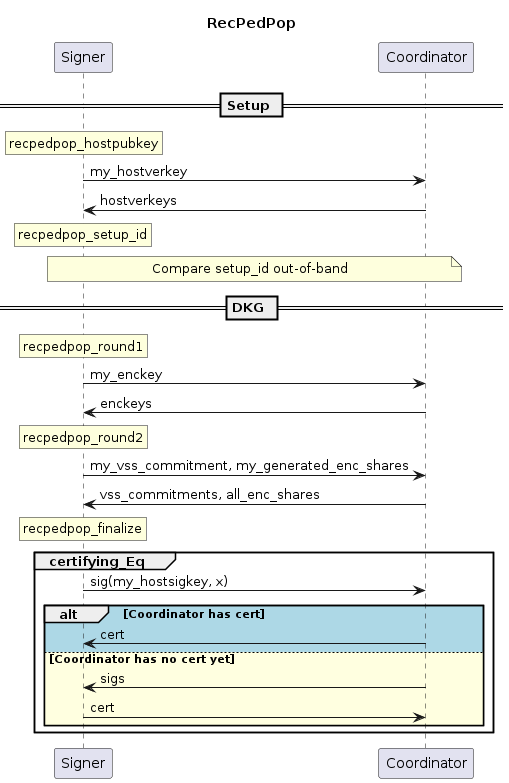
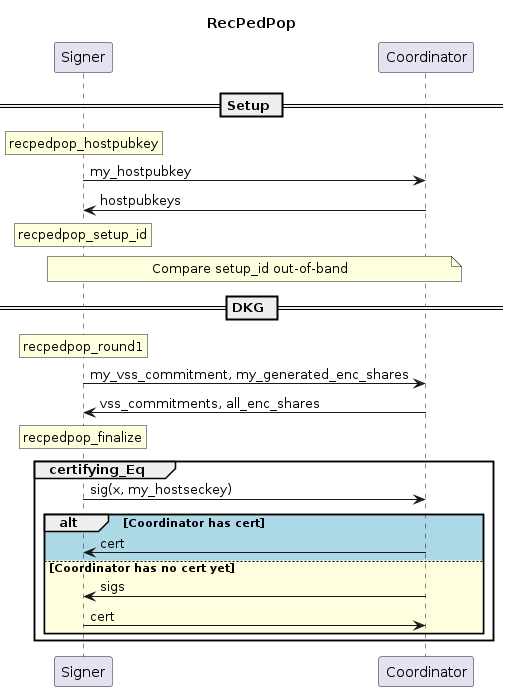
rename python functions and variables post enckeys round removal

Changed region(s): [[0.0, 0.0304, 1.0, 1.0], [0.4126, 0.0, 0.5894, 0.0608]]

diff --git a/reference/reference.py b/reference/reference.py
@@ -153,9 +153,9 @@ def ecdh(deckey: bytes, enckey: bytes, context: bytes) -> Scalar:
 def encrypt(share: Scalar, my_deckey: bytes, enckey: bytes, context: bytes) -> Scalar:
     return (share + ecdh(my_deckey, enckey, context)) % GROUP_ORDER
 
-EncPedPopR2State = Tuple[int, bytes, List[bytes], SimplPedPopR1State]
+EncPedPopR1State = Tuple[int, bytes, List[bytes], SimplPedPopR1State]
 
-def encpedpop_round2(seed: bytes, t: int, n: int, my_deckey: bytes, enckeys: List[bytes], my_idx: int) -> Tuple[EncPedPopR2State, VSSCommitmentExt, List[Scalar]]:
+def encpedpop_round1(seed: bytes, t: int, n: int, my_deckey: bytes, enckeys: List[bytes], my_idx: int) -> Tuple[EncPedPopR1State, VSSCommitmentExt, List[Scalar]]:
     assert(n == len(enckeys))
     if len(enckeys) != len(set(enckeys)):
         raise DuplicateEnckeysError
@@ -170,7 +170,7 @@ def encpedpop_round2(seed: bytes, t: int, n: int, my_deckey: bytes, enckeys: Lis
     state2 = (t, my_deckey, enckeys, simpl_state)
     return state2, vss_commitment_ext, enc_gen_shares
 
-def encpedpop_pre_finalize(state2: EncPedPopR2State, vss_commitments_sum: VSSCommitmentSum, enc_shares_sum: Scalar) -> Tuple[bytes, DKGOutput]:
+def encpedpop_pre_finalize(state2: EncPedPopR1State, vss_commitments_sum: VSSCommitmentSum, enc_shares_sum: Scalar) -> Tuple[bytes, DKGOutput]:
     t, my_deckey, enckeys, simpl_state = state2
     n = len(enckeys)
 
@@ -186,33 +186,33 @@ def encpedpop_pre_finalize(state2: EncPedPopR2State, vss_commitments_sum: VSSCom
     return eta, dkg_output
 
 def recpedpop_hostpubkey(seed: bytes) -> Tuple[bytes, bytes]:
-    my_hostsigkey = kdf(seed, "hostsigkey")
+    my_hostseckey = kdf(seed, "hostseckey")
     # TODO: rename to distinguish plain and xonly key gen
-    my_hostverkey = pubkey_gen_plain(my_hostsigkey)
-    return (my_hostsigkey, my_hostverkey)
+    my_hostpubkey = pubkey_gen_plain(my_hostseckey)
+    return (my_hostseckey, my_hostpubkey)
 
 Setup = Tuple[List[bytes], int, bytes]
 
-def recpedpop_setup_id(hostverkeys: List[bytes], t: int, context_string: bytes) -> Tuple[Setup, bytes]:
+def recpedpop_setup_id(hostpubkeys: List[bytes], t: int, context_string: bytes) -> Tuple[Setup, bytes]:
     assert(t < 2**(4*8))
-    setup_id = tagged_hash("setup id", b''.join(hostverkeys) + t.to_bytes(4, byteorder="big") + context_string)
-    setup = (hostverkeys, t, setup_id)
+    setup_id = tagged_hash("setup id", b''.join(hostpubkeys) + t.to_bytes(4, byteorder="big") + context_string)
+    setup = (hostpubkeys, t, setup_id)
     return setup, setup_id
 
-RecPedPopR2State = Tuple[bytes, int, EncPedPopR2State]
+RecPedPopR1State = Tuple[bytes, int, EncPedPopR1State]
 
-def recpedpop_round2(seed: bytes, setup: Setup) -> Tuple[RecPedPopR2State, VSSCommitmentExt, List[Scalar]]:
-    my_hostsigkey, my_hostverkey = recpedpop_hostpubkey(seed)
-    (hostverkeys, t, setup_id) = setup
-    n = len(hostverkeys)
+def recpedpop_round1(seed: bytes, setup: Setup) -> Tuple[RecPedPopR1State, VSSCommitmentExt, List[Scalar]]:
+    my_hostseckey, my_hostpubkey = recpedpop_hostpubkey(seed)
+    (hostpubkeys, t, setup_id) = setup
+    n = len(hostpubkeys)
 
     seed_ = kdf(seed, "setup", setup_id)
-    my_idx = hostverkeys.index(my_hostverkey)
-    enc_state2, vss_commitment_ext, enc_gen_shares = encpedpop_round2(seed_, t, n, my_hostsigkey, hostverkeys, my_idx)
+    my_idx = hostpubkeys.index(my_hostpubkey)
+    enc_state2, vss_commitment_ext, enc_gen_shares = encpedpop_round1(seed_, t, n, my_hostseckey, hostpubkeys, my_idx)
     state2 = (setup_id, my_idx, enc_state2)
     return state2, vss_commitment_ext, enc_gen_shares
 
-def recpedpop_pre_finalize(seed: bytes, state2: RecPedPopR2State, vss_commitments_sum: VSSCommitmentSum, all_enc_shares_sum: List[Scalar]) -> Tuple[bytes, DKGOutput]:
+def recpedpop_pre_finalize(seed: bytes, state2: RecPedPopR1State, vss_commitments_sum: VSSCommitmentSum, all_enc_shares_sum: List[Scalar]) -> Tuple[bytes, DKGOutput]:
     (setup_id, my_idx, enc_state2) = state2
 
     # TODO Not sure if we need to include setup_id as eta here. But it won't hurt.
@@ -227,10 +227,10 @@ def recpedpop_pre_finalize(seed: bytes, state2: RecPedPopR2State, vss_commitment
 
 EqualityCheck = Callable[[bytes], Coroutine[Any, Any, bool]]
 
-async def recpedpop(chan: SignerChannel, seed: bytes, my_hostsigkey: bytes, setup: Setup) -> Union[Tuple[DKGOutput, Any], bool]:
-    (hostverkeys, _, _) = setup
+async def recpedpop(chan: SignerChannel, seed: bytes, my_hostseckey: bytes, setup: Setup) -> Union[Tuple[DKGOutput, Any], bool]:
+    (hostpubkeys, _, _) = setup
 
-    state2, vss_commitment_ext, enc_gen_shares =  recpedpop_round2(seed, setup)
+    state2, vss_commitment_ext, enc_gen_shares =  recpedpop_round1(seed, setup)
     chan.send((vss_commitment_ext, enc_gen_shares))
     vss_commitments_sum, all_enc_shares_sum = await chan.receive()
 
@@ -239,28 +239,28 @@ async def recpedpop(chan: SignerChannel, seed: bytes, my_hostsigkey: bytes, setu
     except Exception as e:
         print("Exception", repr(e))
         return False
-    cert = await certifying_eq(chan, my_hostsigkey, hostverkeys, eta)
+    cert = await certifying_eq(chan, my_hostseckey, hostpubkeys, eta)
     transcript = (setup, vss_commitments_sum, all_enc_shares_sum, cert)
     return (shares_sum, shared_pubkey, signer_pubkeys), transcript
 
-def verify_cert(hostverkeys: List[bytes], x: bytes, sigs: List[bytes]) -> bool:
-    n = len(hostverkeys)
+def verify_cert(hostpubkeys: List[bytes], x: bytes, sigs: List[bytes]) -> bool:
+    n = len(hostpubkeys)
     if len(sigs) != n:
         return False
-    is_valid = [schnorr_verify(x, hostverkeys[i][1:33], sigs[i]) for i in range(n)]
+    is_valid = [schnorr_verify(x, hostpubkeys[i][1:33], sigs[i]) for i in range(n)]
     return all(is_valid)
 
-async def certifying_eq(chan: SignerChannel, my_hostsigkey: bytes, hostverkeys: List[bytes], x: bytes) -> List[bytes]:
-    n = len(hostverkeys)
+async def certifying_eq(chan: SignerChannel, my_hostseckey: bytes, hostpubkeys: List[bytes], x: bytes) -> List[bytes]:
+    n = len(hostpubkeys)
     # TODO: fix aux_rand
-    chan.send(("SIG", schnorr_sign(x, my_hostsigkey, b'0'*32)))
-    sigs = [b''] * len(hostverkeys)
+    chan.send(("SIG", schnorr_sign(x, my_hostseckey, b'0'*32)))
+    sigs = [b''] * len(hostpubkeys)
     while(True):
         i, ty, msg = await chan.receive()
         if ty == "SIG":
-            # TODO: We're just slicing into a hostverkey to get a 32 byte BIP 340
+            # TODO: We're just slicing into a hostpubkey to get a 32 byte BIP 340
             # pubkey. This makes signatures sort of malleable. Is this ok?
-            is_valid = schnorr_verify(x, hostverkeys[i][1:33], msg)
+            is_valid = schnorr_verify(x, hostpubkeys[i][1:33], msg)
             if sigs[i] == b'' and is_valid:
                 sigs[i] = msg
             elif not is_valid:
@@ -278,7 +278,7 @@ async def certifying_eq(chan: SignerChannel, my_hostsigkey: bytes, hostverkeys: 
                 return cert
         if ty == "CERT":
             sigs = msg
-            if verify_cert(hostverkeys, x, sigs):
+            if verify_cert(hostpubkeys, x, sigs):
                 chan.send(("CERT", cert))
                 return cert
 
@@ -301,15 +301,15 @@ async def recpedpop_coordinate(chans: CoordinatorChannels, t: int, n: int) -> No
 
 # Recovery requires the seed and the public transcript
 def recpedpop_recover(seed: bytes, transcript: Any) -> Union[Tuple[DKGOutput, Setup], bool]:
-    _, my_hostverkey = recpedpop_hostpubkey(seed)
+    _, my_hostpubkey = recpedpop_hostpubkey(seed)
     setup, vss_commitments_sum, all_enc_shares_sum, cert = transcript
-    hostverkeys, _, _ = setup
-    if not my_hostverkey in hostverkeys:
+    hostpubkeys, _, _ = setup
+    if not my_hostpubkey in hostpubkeys:
         return False
 
-    state2, _, _ = recpedpop_round2(seed, setup)
+    state2, _, _ = recpedpop_round1(seed, setup)
 
     eta, (shares_sum, shared_pubkey, signer_pubkeys) = recpedpop_pre_finalize(seed, state2, vss_commitments_sum, all_enc_shares_sum)
-    if not verify_cert(hostverkeys, eta, cert):
+    if not verify_cert(hostpubkeys, eta, cert):
         return False
     return (shares_sum, shared_pubkey, signer_pubkeys), setup

diff --git a/reference/tests.py b/reference/tests.py
@@ -29,29 +29,29 @@ def simulate_simplpedpop(seeds, t):
         dkg_outputs += [simplpedpop_pre_finalize(round1_outputs[i][0], vss_commitments_sum, shares_sum)]
     return dkg_outputs
 
-def encpedpop_round1(seed: bytes) -> Tuple[bytes, bytes]:
+def encpedpop_keys(seed: bytes) -> Tuple[bytes, bytes]:
     my_deckey = kdf(seed, "deckey")
     my_enckey = pubkey_gen_plain(my_deckey)
     return my_deckey, my_enckey
 
 def simulate_encpedpop(seeds, t):
     n = len(seeds)
+    round0_outputs = []
     round1_outputs = []
-    round2_outputs = []
     dkg_outputs = []
     for i in range(n):
-        round1_outputs += [encpedpop_round1(seeds[i])]
+        round0_outputs += [encpedpop_keys(seeds[i])]
 
-    enckeys = [out[1] for out in round1_outputs]
+    enckeys = [out[1] for out in round0_outputs]
     for i in range(n):
-        my_deckey = round1_outputs[i][0]
-        round2_outputs += [encpedpop_round2(seeds[i], t, n, my_deckey, enckeys, i)]
+        my_deckey = round0_outputs[i][0]
+        round1_outputs += [encpedpop_round1(seeds[i], t, n, my_deckey, enckeys, i)]
 
-    vss_commitments_ext = [out[1] for out in round2_outputs]
+    vss_commitments_ext = [out[1] for out in round1_outputs]
     vss_commitments_sum = vss_sum_commitments(vss_commitments_ext, t)
     for i in range(n):
-        enc_shares_sum = scalar_add_multi([out[2][i] for out in round2_outputs])
-        dkg_outputs += [encpedpop_pre_finalize(round2_outputs[i][0], vss_commitments_sum, enc_shares_sum)]
+        enc_shares_sum = scalar_add_multi([out[2][i] for out in round1_outputs])
+        dkg_outputs += [encpedpop_pre_finalize(round1_outputs[i][0], vss_commitments_sum, enc_shares_sum)]
     return dkg_outputs
 
 def simulate_recpedpop(seeds, t):
@@ -61,22 +61,22 @@ def simulate_recpedpop(seeds, t):
     for i in range(n):
         hostkeys += [recpedpop_hostpubkey(seeds[i])]
 
-    hostverkeys = [hostkey[1] for hostkey in hostkeys]
-    setup, _ = recpedpop_setup_id(hostverkeys, t, b'')
+    hostpubkeys = [hostkey[1] for hostkey in hostkeys]
+    setup, _ = recpedpop_setup_id(hostpubkeys, t, b'')
 
-    round2_outputs = []
+    round1_outputs = []
     for i in range(n):
-        round2_outputs += [recpedpop_round2(seeds[i], setup)]
+        round1_outputs += [recpedpop_round1(seeds[i], setup)]
 
-    state2s = [out[0] for out in round2_outputs]
-    vss_commitments_ext = [out[1] for out in round2_outputs]
+    state1s = [out[0] for out in round1_outputs]
+    vss_commitments_ext = [out[1] for out in round1_outputs]
     vss_commitments_sum = vss_sum_commitments(vss_commitments_ext, t)
     dkg_outputs = []
     all_enc_shares_sum = []
     for i in range(n):
-        all_enc_shares_sum += [scalar_add_multi([out[2][i] for out in round2_outputs])]
+        all_enc_shares_sum += [scalar_add_multi([out[2][i] for out in round1_outputs])]
     for i in range(n):
-        dkg_outputs += [recpedpop_pre_finalize(seeds[i], state2s[i], vss_commitments_sum, all_enc_shares_sum)]
+        dkg_outputs += [recpedpop_pre_finalize(seeds[i], state1s[i], vss_commitments_sum, all_enc_shares_sum)]
     return dkg_outputs
 
 def simulate_recpedpop_full(seeds, t):

diff --git a/README.md b/README.md
@@ -323,9 +323,9 @@ The participants start by generating an ephemeral key pair as per [BIP 327's Ind
 The (public) encryption keys are distributed among the participants.
 
 ```python
-EncPedPopR2State = Tuple[int, bytes, List[bytes], SimplPedPopR1State]
+EncPedPopR1State = Tuple[int, bytes, List[bytes], SimplPedPopR1State]
 
-def encpedpop_round2(seed: bytes, t: int, n: int, my_deckey: bytes, enckeys: List[bytes], my_idx: int) -> Tuple[EncPedPopR2State, VSSCommitmentExt, List[Scalar]]:
+def encpedpop_round1(seed: bytes, t: int, n: int, my_deckey: bytes, enckeys: List[bytes], my_idx: int) -> Tuple[EncPedPopR1State, VSSCommitmentExt, List[Scalar]]:
     assert(n == len(enckeys))
     if len(enckeys) != len(set(enckeys)):
         raise DuplicateEnckeysError
@@ -340,7 +340,7 @@ def encpedpop_round2(seed: bytes, t: int, n: int, my_deckey: bytes, enckeys: Lis
     state2 = (t, my_deckey, enckeys, simpl_state)
     return state2, vss_commitment_ext, enc_gen_shares
 
-def encpedpop_pre_finalize(state2: EncPedPopR2State, vss_commitments_sum: VSSCommitmentSum, enc_shares_sum: Scalar) -> Tuple[bytes, DKGOutput]:
+def encpedpop_pre_finalize(state2: EncPedPopR1State, vss_commitments_sum: VSSCommitmentSum, enc_shares_sum: Scalar) -> Tuple[bytes, DKGOutput]:
     t, my_deckey, enckeys, simpl_state = state2
     n = len(enckeys)
 
@@ -376,10 +376,10 @@ Generate long-term host keys.
 
 ```python
 def recpedpop_hostpubkey(seed: bytes) -> Tuple[bytes, bytes]:
-    my_hostsigkey = kdf(seed, "hostsigkey")
+    my_hostseckey = kdf(seed, "hostseckey")
     # TODO: rename to distinguish plain and xonly key gen
-    my_hostverkey = pubkey_gen_plain(my_hostsigkey)
-    return (my_hostsigkey, my_hostverkey)
+    my_hostpubkey = pubkey_gen_plain(my_hostseckey)
+    return (my_hostseckey, my_hostpubkey)
 ```
 
 The participants send their host pubkey to the other participant and collect received host pubkeys.
@@ -388,10 +388,10 @@ They then compute a setup identifier that includes all participants (including y
 ```python
 Setup = Tuple[List[bytes], int, bytes]
 
-def recpedpop_setup_id(hostverkeys: List[bytes], t: int, context_string: bytes) -> Tuple[Setup, bytes]:
+def recpedpop_setup_id(hostpubkeys: List[bytes], t: int, context_string: bytes) -> Tuple[Setup, bytes]:
     assert(t < 2**(4*8))
-    setup_id = tagged_hash("setup id", b''.join(hostverkeys) + t.to_bytes(4, byteorder="big") + context_string)
-    setup = (hostverkeys, t, setup_id)
+    setup_id = tagged_hash("setup id", b''.join(hostpubkeys) + t.to_bytes(4, byteorder="big") + context_string)
+    setup = (hostpubkeys, t, setup_id)
     return setup, setup_id
 ```
 
@@ -399,22 +399,22 @@ The participants compare the setup identifier with every other participant out-o
 If some other participant presents a different setup identifier, the participant aborts.
 
 ```python
-RecPedPopR2State = Tuple[bytes, int, EncPedPopR2State]
+RecPedPopR1State = Tuple[bytes, int, EncPedPopR1State]
 
-def recpedpop_round2(seed: bytes, setup: Setup) -> Tuple[RecPedPopR2State, VSSCommitmentExt, List[Scalar]]:
-    my_hostsigkey, my_hostverkey = recpedpop_hostpubkey(seed)
-    (hostverkeys, t, setup_id) = setup
-    n = len(hostverkeys)
+def recpedpop_round1(seed: bytes, setup: Setup) -> Tuple[RecPedPopR1State, VSSCommitmentExt, List[Scalar]]:
+    my_hostseckey, my_hostpubkey = recpedpop_hostpubkey(seed)
+    (hostpubkeys, t, setup_id) = setup
+    n = len(hostpubkeys)
 
     seed_ = kdf(seed, "setup", setup_id)
-    my_idx = hostverkeys.index(my_hostverkey)
-    enc_state2, vss_commitment_ext, enc_gen_shares = encpedpop_round2(seed_, t, n, my_hostsigkey, hostverkeys, my_idx)
+    my_idx = hostpubkeys.index(my_hostpubkey)
+    enc_state2, vss_commitment_ext, enc_gen_shares = encpedpop_round1(seed_, t, n, my_hostseckey, hostpubkeys, my_idx)
     state2 = (setup_id, my_idx, enc_state2)
     return state2, vss_commitment_ext, enc_gen_shares
 ```
 
 ```python
-def recpedpop_pre_finalize(seed: bytes, state2: RecPedPopR2State, vss_commitments_sum: VSSCommitmentSum, all_enc_shares_sum: List[Scalar]) -> Tuple[bytes, DKGOutput]:
+def recpedpop_pre_finalize(seed: bytes, state2: RecPedPopR1State, vss_commitments_sum: VSSCommitmentSum, all_enc_shares_sum: List[Scalar]) -> Tuple[bytes, DKGOutput]:
     (setup_id, my_idx, enc_state2) = state2
 
     # TODO Not sure if we need to include setup_id as eta here. But it won't hurt.
@@ -431,10 +431,10 @@ def recpedpop_pre_finalize(seed: bytes, state2: RecPedPopR2State, vss_commitment
 ```python
 EqualityCheck = Callable[[bytes], Coroutine[Any, Any, bool]]
 
-async def recpedpop(chan: SignerChannel, seed: bytes, my_hostsigkey: bytes, setup: Setup) -> Union[Tuple[DKGOutput, Any], bool]:
-    (hostverkeys, _, _) = setup
+async def recpedpop(chan: SignerChannel, seed: bytes, my_hostseckey: bytes, setup: Setup) -> Union[Tuple[DKGOutput, Any], bool]:
+    (hostpubkeys, _, _) = setup
 
-    state2, vss_commitment_ext, enc_gen_shares =  recpedpop_round2(seed, setup)
+    state2, vss_commitment_ext, enc_gen_shares =  recpedpop_round1(seed, setup)
     chan.send((vss_commitment_ext, enc_gen_shares))
     vss_commitments_sum, all_enc_shares_sum = await chan.receive()
 
@@ -443,7 +443,7 @@ async def recpedpop(chan: SignerChannel, seed: bytes, my_hostsigkey: bytes, setu
     except Exception as e:
         print("Exception", repr(e))
         return False
-    cert = await certifying_eq(chan, my_hostsigkey, hostverkeys, eta)
+    cert = await certifying_eq(chan, my_hostseckey, hostpubkeys, eta)
     transcript = (setup, vss_commitments_sum, all_enc_shares_sum, cert)
     return (shares_sum, shared_pubkey, signer_pubkeys), transcript
 ```
@@ -455,24 +455,24 @@ TODO The hpk should be the id here... clean this up and write something about se
 The equality check of ChillDKG is instantiated by the following protocol:
 
 ```python
-def verify_cert(hostverkeys: List[bytes], x: bytes, sigs: List[bytes]) -> bool:
-    n = len(hostverkeys)
+def verify_cert(hostpubkeys: List[bytes], x: bytes, sigs: List[bytes]) -> bool:
+    n = len(hostpubkeys)
     if len(sigs) != n:
         return False
-    is_valid = [schnorr_verify(x, hostverkeys[i][1:33], sigs[i]) for i in range(n)]
+    is_valid = [schnorr_verify(x, hostpubkeys[i][1:33], sigs[i]) for i in range(n)]
     return all(is_valid)
 
-async def certifying_eq(chan: SignerChannel, my_hostsigkey: bytes, hostverkeys: List[bytes], x: bytes) -> List[bytes]:
-    n = len(hostverkeys)
+async def certifying_eq(chan: SignerChannel, my_hostseckey: bytes, hostpubkeys: List[bytes], x: bytes) -> List[bytes]:
+    n = len(hostpubkeys)
     # TODO: fix aux_rand
-    chan.send(("SIG", schnorr_sign(x, my_hostsigkey, b'0'*32)))
-    sigs = [b''] * len(hostverkeys)
+    chan.send(("SIG", schnorr_sign(x, my_hostseckey, b'0'*32)))
+    sigs = [b''] * len(hostpubkeys)
     while(True):
         i, ty, msg = await chan.receive()
         if ty == "SIG":
-            # TODO: We're just slicing into a hostverkey to get a 32 byte BIP 340
+            # TODO: We're just slicing into a hostpubkey to get a 32 byte BIP 340
             # pubkey. This makes signatures sort of malleable. Is this ok?
-            is_valid = schnorr_verify(x, hostverkeys[i][1:33], msg)
+            is_valid = schnorr_verify(x, hostpubkeys[i][1:33], msg)
             if sigs[i] == b'' and is_valid:
                 sigs[i] = msg
             elif not is_valid:
@@ -490,7 +490,7 @@ async def certifying_eq(chan: SignerChannel, my_hostsigkey: bytes, hostverkeys: 
                 return cert
         if ty == "CERT":
             sigs = msg
-            if verify_cert(hostverkeys, x, sigs):
+            if verify_cert(hostpubkeys, x, sigs):
                 chan.send(("CERT", cert))
                 return cert
 ```
@@ -533,16 +533,16 @@ On the other hand, DKG transcripts are public and allow to re-run above ChillDKG
 ```python
 # Recovery requires the seed and the public transcript
 def recpedpop_recover(seed: bytes, transcript: Any) -> Union[Tuple[DKGOutput, Setup], bool]:
-    _, my_hostverkey = recpedpop_hostpubkey(seed)
+    _, my_hostpubkey = recpedpop_hostpubkey(seed)
     setup, vss_commitments_sum, all_enc_shares_sum, cert = transcript
-    hostverkeys, _, _ = setup
-    if not my_hostverkey in hostverkeys:
+    hostpubkeys, _, _ = setup
+    if not my_hostpubkey in hostpubkeys:
         return False
 
-    state2, _, _ = recpedpop_round2(seed, setup)
+    state2, _, _ = recpedpop_round1(seed, setup)
 
     eta, (shares_sum, shared_pubkey, signer_pubkeys) = recpedpop_pre_finalize(seed, state2, vss_commitments_sum, all_enc_shares_sum)
-    if not verify_cert(hostverkeys, eta, cert):
+    if not verify_cert(hostpubkeys, eta, cert):
         return False
     return (shares_sum, shared_pubkey, signer_pubkeys), setup
 ```
